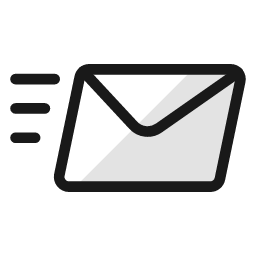
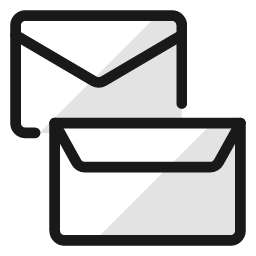
Update privacy policy and terms of service content
- Rewrite privacy policy with 11 sections (business info, data collection, etc.)
- Rewrite terms of service with 14 articles
- Update feature-mail image
- Remove unused hero smartphone image with typo in filename

diff --git a/app/terms/page.tsx b/app/terms/page.tsx
@@ -14,7 +14,7 @@ export default function TermsPage() {
             <a href="/#features">特徴</a>
             <a href="/#strengths">強み</a>
             <a href="/#how">使い方</a>
-            <a href="/signup" className="nav-cta">無料で始める</a>
+            <a href="/login" className="nav-cta">ログイン</a>
           </div>
         </nav>
       </header>
@@ -23,135 +23,67 @@ export default function TermsPage() {
         <h1 style={{ fontFamily: "'Outfit', sans-serif", fontSize: 32, fontWeight: 800, marginBottom: 8, color: "var(--dark-navy)" }}>
           利用規約
         </h1>
-        <p style={{ fontSize: 13, color: "#9CA3AF", marginBottom: 40 }}>最終更新日: 2026年2月2日</p>
+        <p style={{ fontSize: 13, color: "#9CA3AF", marginBottom: 40 }}>最終更新日: 2026年2月6日</p>
 
         <div style={{ fontSize: 15, lineHeight: 1.9, color: "#374151" }}>
-          <p>この利用規約（以下「本規約」）は、TapSmart English（以下「本サービス」）の利用条件を定めるものです。ユーザーの皆さまには、本規約に同意いただいた上で本サービスをご利用いただきます。</p>
-
           <h2 style={h2Style}>第1条（適用）</h2>
-          <p>本規約は、ユーザーと本サービス運営者（以下「運営者」）との間の本サービスの利用に関わる一切の関係に適用されます。運営者が本サービス上で掲載する個別規定やガイドラインも、本規約の一部を構成するものとします。</p>
+          <p>本規約は、本サービスの利用に関する一切に適用されます。</p>
 
           <h2 style={h2Style}>第2条（利用登録）</h2>
-          <ol style={olStyle}>
-            <li>登録希望者が運営者の定める方法によって利用登録を申請し、運営者がこれを承認することによって利用登録が完了するものとします。</li>
-            <li>運営者は、以下の場合に利用登録を拒否することがあり、その理由について一切の開示義務を負わないものとします。
-              <ul style={ulStyle}>
-                <li>虚偽の事項を届け出た場合</li>
-                <li>本規約に違反したことがある者からの申請である場合</li>
-                <li>その他、運営者が利用登録を相当でないと判断した場合</li>
-              </ul>
-            </li>
-          </ol>
+          <p>当社は、登録申請に虚偽がある場合、または運営上不適切と判断した場合、利用登録を承認しないことがあります。</p>
 
           <h2 style={h2Style}>第3条（アカウント管理）</h2>
-          <ol style={olStyle}>
-            <li>ユーザーは、自己の責任においてアカウント情報（メールアドレス、パスワード等）を適切に管理するものとします。</li>
-            <li>ユーザーは、いかなる場合にもアカウントを第三者に譲渡・貸与することはできません。</li>
-            <li>アカウント情報の管理不十分、第三者の使用等による損害の責任はユーザーが負うものとし、運営者は一切の責任を負いません。</li>
-          </ol>
+          <p>アカウント情報の管理は、ユーザー自身の責任において行うものとします。</p>
 
           <h2 style={h2Style}>第4条（有料プラン・支払い）</h2>
-          <ol style={olStyle}>
-            <li>有料プランの料金は、本サービス上に表示する金額とします。運営者は、料金を事前の通知なく変更できるものとします。ただし、変更前に契約済みの有料期間には影響しません。</li>
-            <li>支払いはクレジットカード等の運営者が指定する方法で行うものとします。</li>
-            <li>ユーザーが支払いを怠った場合、運営者はサービスの提供を停止できるものとします。</li>
-            <li>いったん支払われた料金は、法令に定めがある場合を除き、返金いたしません。</li>
-          </ol>
-
-          <h2 style={h2Style}>第5条（無料トライアル）</h2>
-          <ol style={olStyle}>
-            <li>運営者は、新規ユーザーに対し無料トライアル期間を提供する場合があります。</li>
-            <li>無料トライアル期間中にキャンセルしない場合、自動的に有料プランに移行します。</li>
-            <li>無料トライアルの提供条件は、運営者の判断により変更・終了する場合があります。</li>
-          </ol>
-
-          <h2 style={h2Style}>第6条（禁止事項）</h2>
-          <p>ユーザーは、本サービスの利用にあたり以下の行為をしてはなりません。</p>
           <ul style={ulStyle}>
-            <li>法令または公序良俗に違反する行為</li>
-            <li>犯罪行為に関連する行為</li>
-            <li>本サービスのサーバーまたはネットワークに過度の負荷をかける行為</li>
-            <li>本サービスの運営を妨害する行為</li>
-            <li>他のユーザーの情報を収集する行為</li>
-            <li>不正アクセスまたはこれを試みる行為</li>
-            <li>他のユーザーに成りすます行為</li>
-            <li>本サービスのコンテンツを無断で複製・転載・再配布する行為</li>
-            <li>反社会的勢力に対する利益供与その他の協力行為</li>
-            <li>その他、運営者が不適切と判断する行為</li>
+            <li>有料プランは月額制の自動更新プランです。</li>
+            <li>料金、支払方法、更新日その他の条件は、申込画面および特定商取引法に基づく表記ページに表示される内容に従います。</li>
+            <li>ユーザーは、サービス内の解約手続により、次回更新日前までに解約することで更新を停止できます。</li>
+            <li>支払済の利用料金は、デジタルコンテンツの性質上、法令で認められる場合を除き返金されません。</li>
           </ul>
 
-          <h2 style={h2Style}>第7条（本サービスの提供の停止等）</h2>
-          <ol style={olStyle}>
-            <li>運営者は、以下のいずれかの事由があると判断した場合、ユーザーに事前に通知することなく本サービスの全部または一部の提供を停止・中断できるものとします。
-              <ul style={ulStyle}>
-                <li>本サービスにかかるシステムの保守点検・更新を行う場合</li>
-                <li>地震、落雷、火災、停電、天災等の不可抗力により提供が困難となった場合</li>
-                <li>コンピュータまたは通信回線等が事故により停止した場合</li>
-                <li>その他、運営者が提供の停止・中断を必要と判断した場合</li>
-              </ul>
-            </li>
-            <li>運営者は、本サービスの停止・中断によりユーザーまたは第三者が被った不利益や損害について、一切の責任を負いません。</li>
-          </ol>
+          <h2 style={h2Style}>第5条（無料トライアル）</h2>
+          <ul style={ulStyle}>
+            <li>本サービスには7日間の無料トライアル期間があります。</li>
+            <li>無料トライアル期間終了までに解約が行われない場合、有料プランへ自動的に移行します。</li>
+          </ul>
 
-          <h2 style={h2Style}>第8条（利用制限および登録抹消）</h2>
-          <ol style={olStyle}>
-            <li>運営者は、ユーザーが以下のいずれかに該当すると判断した場合、事前の通知なくユーザーの利用を制限し、またはアカウントを抹消できるものとします。
-              <ul style={ulStyle}>
-                <li>本規約に違反した場合</li>
-                <li>登録事項に虚偽の事実があることが判明した場合</li>
-                <li>料金等の支払債務の不履行があった場合</li>
-                <li>運営者からの連絡に対し、一定期間返答がない場合</li>
-                <li>その他、運営者が本サービスの利用を適当でないと判断した場合</li>
-              </ul>
-            </li>
-            <li>運営者は、本条に基づく措置によりユーザーに生じた損害について、一切の責任を負いません。</li>
-          </ol>
+          <h2 style={h2Style}>第6条（禁止事項）</h2>
+          <p>ユーザーは、以下の行為を行ってはなりません。</p>
+          <ul style={ulStyle}>
+            <li>法令または本規約に違反する行為</li>
+            <li>本サービスの不正利用、多重登録、アカウントの共有</li>
+            <li>本サービスのリバースエンジニアリング、解析、複製</li>
+            <li>サーバーまたはネットワークに過度な負荷をかける行為</li>
+          </ul>
+
+          <h2 style={h2Style}>第7条（サービスの変更・中断・終了）</h2>
+          <p>当社は、必要に応じて本サービスの全部または一部を変更、中断、または終了することがあります。可能な場合には、事前に通知します。</p>
+
+          <h2 style={h2Style}>第8条（利用制限・登録抹消）</h2>
+          <p>当社は、ユーザーが本規約に違反した場合等、必要に応じて利用制限または登録抹消を行うことがあります。</p>
 
           <h2 style={h2Style}>第9条（退会）</h2>
-          <p>ユーザーは、本サービス上のアカウント設定画面からいつでも退会手続きを行うことができます。退会した場合、ユーザーに関する一切のデータが削除される場合があり、復元はできません。</p>
+          <p>ユーザーは、当社所定の方法により、いつでも退会できます。退会後の個人情報の取扱いは、プライバシーポリシーに従います。</p>
 
-          <h2 style={h2Style}>第10条（コンテンツの権利）</h2>
-          <ol style={olStyle}>
-            <li>本サービスが提供するコンテンツ（AI生成の英文、翻訳、解説等を含む）に関する著作権その他の知的財産権は運営者に帰属します。</li>
-            <li>ユーザーは、本サービスのコンテンツを個人の学習目的に限り利用できるものとし、無断での複製・転載・商用利用を禁止します。</li>
-          </ol>
+          <h2 style={h2Style}>第10条（AI生成コンテンツ）</h2>
+          <p>AI生成コンテンツは学習補助を目的とするものであり、特定の成果を保証するものではありません。</p>
 
-          <h2 style={h2Style}>第11条（免責事項）</h2>
-          <ol style={olStyle}>
-            <li>運営者は、本サービスに事実上または法律上の瑕疵（安全性、信頼性、正確性、完全性、有効性、特定の目的への適合性、セキュリティ上の欠陥、エラー・バグ、権利侵害等を含む）がないことを明示的にも黙示的にも保証しません。</li>
-            <li>運営者は、本サービスに起因してユーザーに生じたあらゆる損害について、運営者の故意または重大な過失による場合を除き、一切の責任を負いません。</li>
-            <li>運営者がユーザーに対して損害賠償責任を負う場合であっても、その範囲は、ユーザーが過去12ヶ月間に本サービスに支払った金額を上限とします。</li>
-            <li>AI生成コンテンツの正確性・適切性について、運営者は一切保証しません。学習の参考としてご利用ください。</li>
-          </ol>
+          <h2 style={h2Style}>第11条（免責・責任制限）</h2>
+          <p>当社の責任は、当社の故意または重大な過失による場合を除き、過去12か月間にユーザーが支払った利用料金の総額を上限とします。無料トライアル期間中または無料利用の場合、当社の責任は法令で認められる範囲に限定されます。</p>
 
-          <h2 style={h2Style}>第12条（サービス内容の変更等）</h2>
-          <p>運営者は、ユーザーへの事前の通知なく本サービスの内容を変更し、または本サービスの提供を終了できるものとします。これによりユーザーに生じた損害について、運営者は一切の責任を負いません。</p>
+          <h2 style={h2Style}>第12条（規約変更）</h2>
+          <p>当社は、本規約を必要に応じて変更することができます。変更後の規約は、本サービス上に表示された時点で効力を生じます。</p>
 
-          <h2 style={h2Style}>第13条（利用規約の変更）</h2>
-          <ol style={olStyle}>
-            <li>運営者は、必要と判断した場合には、ユーザーの個別の同意を要せず、いつでも本規約を変更できるものとします。</li>
-            <li>変更後の利用規約は、本サービス上に掲載した時点で効力を生じるものとします。</li>
-            <li>本規約の変更後、本サービスの利用を継続した場合、ユーザーは変更後の規約に同意したものとみなされます。</li>
-          </ol>
+          <h2 style={h2Style}>第13条（準拠法・管轄）</h2>
+          <p>本規約は日本法を準拠法とし、本サービスに関する紛争は、当社所在地を管轄する裁判所を合意管轄とします。</p>
 
-          <h2 style={h2Style}>第14条（個人情報の取扱い）</h2>
-          <p>運営者は、本サービスの利用によって取得する個人情報を、別途定める「<a href="/privacy" style={{ color: "var(--accent-cyan)" }}>プライバシーポリシー</a>」に従い適切に取り扱います。</p>
-
-          <h2 style={h2Style}>第15条（通知または連絡）</h2>
-          <p>ユーザーと運営者との間の通知または連絡は、運営者の定める方法（メール等）によって行うものとします。運営者がユーザーの登録メールアドレスに通知を送信した場合、発信時点でユーザーに到達したものとみなします。</p>
-
-          <h2 style={h2Style}>第16条（権利義務の譲渡の禁止）</h2>
-          <p>ユーザーは、運営者の書面による事前の承諾なく、利用契約上の地位または本規約に基づく権利義務を第三者に譲渡し、または担保に供することはできません。</p>
-
-          <h2 style={h2Style}>第17条（準拠法・裁判管轄）</h2>
-          <ol style={olStyle}>
-            <li>本規約の解釈にあたっては、日本法を準拠法とします。</li>
-            <li>本サービスに関して紛争が生じた場合には、運営者の本店所在地を管轄する裁判所を専属的合意管轄とします。</li>
-          </ol>
+          <h2 style={h2Style}>第14条（個人情報）</h2>
+          <p>個人情報の取扱いは、<a href="/privacy" style={{ color: "var(--accent-cyan)" }}>プライバシーポリシー</a>に従います。</p>
 
           <div style={{ marginTop: 48, padding: "20px 24px", background: "#F9FAFB", borderRadius: 12, fontSize: 14, color: "#6B7280" }}>
             <p>以上</p>
-            <p style={{ marginTop: 8 }}>お問い合わせ: <a href="/contact" style={{ color: "var(--accent-cyan)" }}>お問い合わせフォーム</a> または support@tapsmart.jp</p>
           </div>
         </div>
       </section>
@@ -159,7 +91,7 @@ export default function TermsPage() {
       <footer>
         <div className="footer-content">
           <div className="footer-brand">
-            <h3>TapSmart English</h3>
+            <h3>TapSmart <span style={{ color: "var(--primary-cyan)" }}>English</span></h3>
             <p>ビジネス英語を、自分のペースで。<br />毎日続けられる学習体験を提供します。</p>
           </div>
           <div className="footer-links">
@@ -190,10 +122,6 @@ export default function TermsPage() {
 const h2Style: React.CSSProperties = {
   fontSize: 18, fontWeight: 700, marginTop: 36, marginBottom: 12, color: "var(--dark-navy)",
   fontFamily: "'Outfit', sans-serif",
-};
-
-const olStyle: React.CSSProperties = {
-  paddingLeft: 20, display: "flex", flexDirection: "column", gap: 8,
 };
 
 const ulStyle: React.CSSProperties = {

diff --git a/app/privacy/page.tsx b/app/privacy/page.tsx
@@ -14,7 +14,7 @@ export default function PrivacyPage() {
             <a href="/#features">特徴</a>
             <a href="/#strengths">強み</a>
             <a href="/#how">使い方</a>
-            <a href="/signup" className="nav-cta">無料で始める</a>
+            <a href="/login" className="nav-cta">ログイン</a>
           </div>
         </nav>
       </header>
@@ -26,80 +26,73 @@ export default function PrivacyPage() {
         <p style={{ fontSize: 13, color: "#9CA3AF", marginBottom: 40 }}>最終更新日: 2026年2月6日</p>
 
         <div style={{ fontSize: 15, lineHeight: 1.9, color: "#374151" }}>
-          <p>TapSmart English（以下「本サービス」）を運営する運営者（以下「当社」）は、ユーザーの個人情報の保護を重要と考え、以下のとおりプライバシーポリシー（以下「本ポリシー」）を定めます。</p>
+          <p>TapSmart English（以下「当社」）は、TapSmart Englishが提供する各種サービス（以下「本サービス」）における個人情報の取扱いについて、以下のとおり定めます。</p>
+          <p>本サービスは主として日本国内のユーザーを対象として提供されており、個人情報の取扱いは日本の法令を前提としています。</p>
 
-          <h2 style={h2Style}>1. 収集する情報</h2>
-          <p>当社は、本サービスの提供にあたり、以下の情報を収集します。</p>
+          <h2 style={h2Style}>1. 事業者情報</h2>
+          <p>事業者名：TapSmart English（屋号）<br />所在地：東京都中央区新川<br />連絡先：support@tapsmart.jp</p>
+          <p style={{ fontSize: 13, color: "#6B7280", marginTop: 8 }}>※当社の氏名、番地等の詳細は、特定商取引法に基づく表記ページに記載します。<br />※当社は、法令に基づく請求があった場合、適切かつ遅滞なく対応します。</p>
+
+          <h2 style={h2Style}>2. 取得する情報</h2>
+          <p>当社は、本サービスの提供にあたり、以下の情報を取得することがあります。</p>
           <ul style={ulStyle}>
-            <li><strong>アカウント情報:</strong> メールアドレス、パスワード（暗号化して保存）、ニックネーム</li>
-            <li><strong>利用設定情報:</strong> 学習レベル、配信時間、単語数、配信先メールアドレス</li>
-            <li><strong>学習記録:</strong> メールの閲覧記録（日付・回数）</li>
-            <li><strong>決済情報:</strong> Stripe を通じて処理されるクレジットカード情報（当社はカード番号を直接保持しません）</li>
-            <li><strong>お問い合わせ情報:</strong> お名前、メールアドレス、お問い合わせ内容</li>
-            <li><strong>自動収集情報:</strong> アクセスログ、IPアドレス、ブラウザ情報、Cookie等</li>
+            <li>メールアドレス、パスワード（パスワードはハッシュ化等の不可逆的処理を施したもの）</li>
+            <li>ニックネーム、学習設定情報</li>
+            <li>学習履歴、利用状況</li>
+            <li>決済履歴、有料プランの利用状況（※クレジットカード情報は決済代行事業者が管理し、当社は保持しません）</li>
+            <li>お問い合わせ内容</li>
+            <li>アクセスログ、IPアドレス、Cookie等の技術情報</li>
           </ul>
 
-          <h2 style={h2Style}>2. 情報の利用目的</h2>
-          <p>当社は、収集した情報を以下の目的で利用します。</p>
+          <h2 style={h2Style}>3. 利用目的</h2>
+          <p>取得した情報は、以下の目的で利用します。</p>
           <ul style={ulStyle}>
-            <li>本サービスの提供・運営・改善</li>
-            <li>ユーザーの学習設定に基づくメール配信</li>
-            <li>ユーザーサポートおよびお問い合わせへの対応</li>
-            <li>有料プランの決済処理</li>
-            <li>サービスの利用状況の分析・統計</li>
-            <li>規約違反行為への対応</li>
-            <li>本サービスに関する重要なお知らせの送信</li>
-            <li>その他、上記利用目的に付随する業務</li>
+            <li>本サービスの提供、維持、管理</li>
+            <li>利用状況の分析、不正行為（多重登録、不正決済、BOT利用等）の防止および対応</li>
+            <li>お問い合わせへの対応</li>
+            <li>決済処理および利用状況の管理</li>
+            <li>法令の遵守および利用規約違反への対応</li>
           </ul>
 
-          <h2 style={h2Style}>3. 第三者への提供</h2>
-          <p>当社は、以下の場合を除き、ユーザーの個人情報を第三者に提供しません。</p>
+          <h2 style={h2Style}>4. 第三者提供・業務委託・国外での取扱い</h2>
+          <p>当社は、本サービスの運営に必要な範囲で、以下の業務を第三者に委託することがあります。</p>
           <ul style={ulStyle}>
-            <li>ユーザーの同意がある場合</li>
-            <li>法令に基づく場合</li>
-            <li>人の生命・身体または財産の保護のために必要であり、本人の同意を得ることが困難な場合</li>
-            <li>公衆衛生の向上または児童の健全な育成の推進のために特に必要な場合</li>
-            <li>国の機関もしくは地方公共団体またはその委託を受けた者が法令の定める事務を遂行する場合</li>
+            <li>決済処理（Stripe, Inc.）</li>
+            <li>AI関連サービス（OpenAI API 等）</li>
+            <li>サーバーおよびインフラ管理（Vercel Inc.、Google LLC（Firebase））</li>
+            <li>メール配信、システム運用等</li>
           </ul>
+          <p>これらの委託先には、日本国外（主に米国）に所在する事業者が含まれる場合があり、ユーザーの個人情報が国外で取り扱われることがあります。</p>
+          <p>当社は、委託先が所在する国または地域の個人情報保護制度を確認した上で、契約その他の方法により、個人情報保護法を踏まえた合理的かつ適切な安全管理措置を講じます。</p>
 
-          <h2 style={h2Style}>4. 外部サービスの利用</h2>
-          <p>本サービスでは、認証、データベース、決済処理、メール配信、AI による英文生成、ホスティング等の目的で外部サービスを利用しています。これらの外部サービスに対し、サービス提供に必要な範囲で情報が送信されます。</p>
+          <h2 style={h2Style}>5. AIサービスの利用</h2>
+          <p>当社は、本サービスの機能提供および品質向上のため、外部のAI関連サービス（例：OpenAI API 等）を利用することがあります。</p>
+          <p>ユーザーが本サービス上で入力する情報は、当社が別途定める範囲に限定され、コンテンツ生成および配信制御の目的で、AI関連サービスに送信される場合があります。</p>
+          <p>AIにより生成されるコンテンツは学習補助を目的とするものであり、その正確性、完全性、特定の成果等を当社が保証するものではありません。</p>
 
-          <h2 style={h2Style}>5. Cookie の利用</h2>
-          <p>本サービスは、ユーザーの認証状態の維持やサービスの改善のためにCookieを使用します。ユーザーはブラウザの設定によりCookieの受け入れを拒否できますが、その場合、本サービスの一部機能が利用できなくなる場合があります。</p>
+          <h2 style={h2Style}>6. 未成年者の利用</h2>
+          <p>18歳未満のユーザーが本サービスを利用する場合、事前に法定代理人（保護者等）の同意を得た上で利用するものとします。</p>
 
-          <h2 style={h2Style}>6. 情報の安全管理</h2>
-          <p>当社は、収集した個人情報の漏洩・毀損・滅失の防止その他の安全管理のために、合理的な技術的・組織的措置を講じます。ただし、インターネット上の通信やデータ保存において完全な安全性を保証することはできません。</p>
+          <h2 style={h2Style}>7. Cookie等の利用</h2>
+          <p>当社は、本サービスの提供および利便性向上のため、Cookie等の技術を使用します。ユーザーは、ブラウザの設定によりCookieを無効化することができますが、その場合、本サービスの一部機能が利用できないことがあります。</p>
 
-          <h2 style={h2Style}>7. データの保存期間</h2>
+          <h2 style={h2Style}>8. 安全管理</h2>
+          <p>当社は、個人情報の管理について、法令に従い必要かつ適切な安全管理措置を講じます。ただし、インターネット通信の性質上、情報の完全な安全性を保証するものではありません。</p>
+
+          <h2 style={h2Style}>9. 保存期間</h2>
+          <p>当社は、以下の目的に必要な範囲で個人情報を保持します。</p>
           <ul style={ulStyle}>
-            <li>アカウント情報・学習記録: アカウント削除まで保存します。</li>
-            <li>お問い合わせ情報: 対応完了後、合理的な期間保存した後に削除します。</li>
-            <li>決済情報: Stripe の規定に従い保存されます。</li>
+            <li>アカウント情報・学習履歴：法令対応、不正防止、紛争対応等に必要な期間</li>
+            <li>お問い合わせ情報：対応完了後、一定期間</li>
+            <li>決済関連情報：法令および決済事業者の定める期間</li>
           </ul>
-          <p>アカウント削除後、バックアップからの完全な削除には一定期間を要する場合があります。</p>
+          <p>目的達成後は、適切な方法により削除または匿名化します。</p>
 
-          <h2 style={h2Style}>8. ユーザーの権利</h2>
-          <p>ユーザーは、以下の権利を有します。</p>
-          <ul style={ulStyle}>
-            <li><strong>アクセス・訂正:</strong> アカウント設定画面から、ご自身の登録情報を確認・変更できます。</li>
-            <li><strong>削除:</strong> アカウント設定画面からアカウントを削除できます。削除により、ユーザーに関連する情報は消去されます。</li>
-            <li><strong>お問い合わせ:</strong> 上記に関するご請求は、お問い合わせフォームまたは下記連絡先までご連絡ください。</li>
-          </ul>
+          <h2 style={h2Style}>10. 開示・訂正・利用停止等</h2>
+          <p>ユーザーは、法令の定めに従い、自己の個人情報について、開示、訂正、利用停止等を請求することができます。</p>
 
-          <h2 style={h2Style}>9. プライバシーポリシーの変更</h2>
-          <ol style={olStyle}>
-            <li>当社は、必要に応じて本ポリシーを変更できるものとします。</li>
-            <li>変更後のプライバシーポリシーは、本サービス上に掲載した時点で効力を生じるものとします。</li>
-            <li>重要な変更がある場合は、本サービス上または登録メールアドレスへの通知により周知いたします。</li>
-          </ol>
-
-          <h2 style={h2Style}>10. お問い合わせ窓口</h2>
-          <p>本ポリシーに関するお問い合わせは、以下の窓口までお願いいたします。</p>
-          <div style={{ marginTop: 12, padding: "16px 20px", background: "#F9FAFB", borderRadius: 12, fontSize: 14 }}>
-            <p>TapSmart English サポート</p>
-            <p><a href="/contact" style={{ color: "var(--accent-cyan)" }}>お問い合わせフォーム</a></p>
-          </div>
+          <h2 style={h2Style}>11. ポリシーの変更</h2>
+          <p>本ポリシーは、法令の改正やサービス内容の変更等に応じて変更されることがあります。変更後の内容は、本サービス上に表示された時点で効力を生じます。</p>
 
           <div style={{ marginTop: 48, padding: "20px 24px", background: "#F9FAFB", borderRadius: 12, fontSize: 14, color: "#6B7280" }}>
             <p>以上</p>
@@ -110,7 +103,7 @@ export default function PrivacyPage() {
       <footer>
         <div className="footer-content">
           <div className="footer-brand">
-            <h3>TapSmart English</h3>
+            <h3>TapSmart <span style={{ color: "var(--primary-cyan)" }}>English</span></h3>
             <p>ビジネス英語を、自分のペースで。<br />毎日続けられる学習体験を提供します。</p>
           </div>
           <div className="footer-links">
@@ -141,10 +134,6 @@ export default function PrivacyPage() {
 const h2Style: React.CSSProperties = {
   fontSize: 18, fontWeight: 700, marginTop: 36, marginBottom: 12, color: "var(--dark-navy)",
   fontFamily: "'Outfit', sans-serif",
-};
-
-const olStyle: React.CSSProperties = {
-  paddingLeft: 20, display: "flex", flexDirection: "column", gap: 8,
 };
 
 const ulStyle: React.CSSProperties = {
